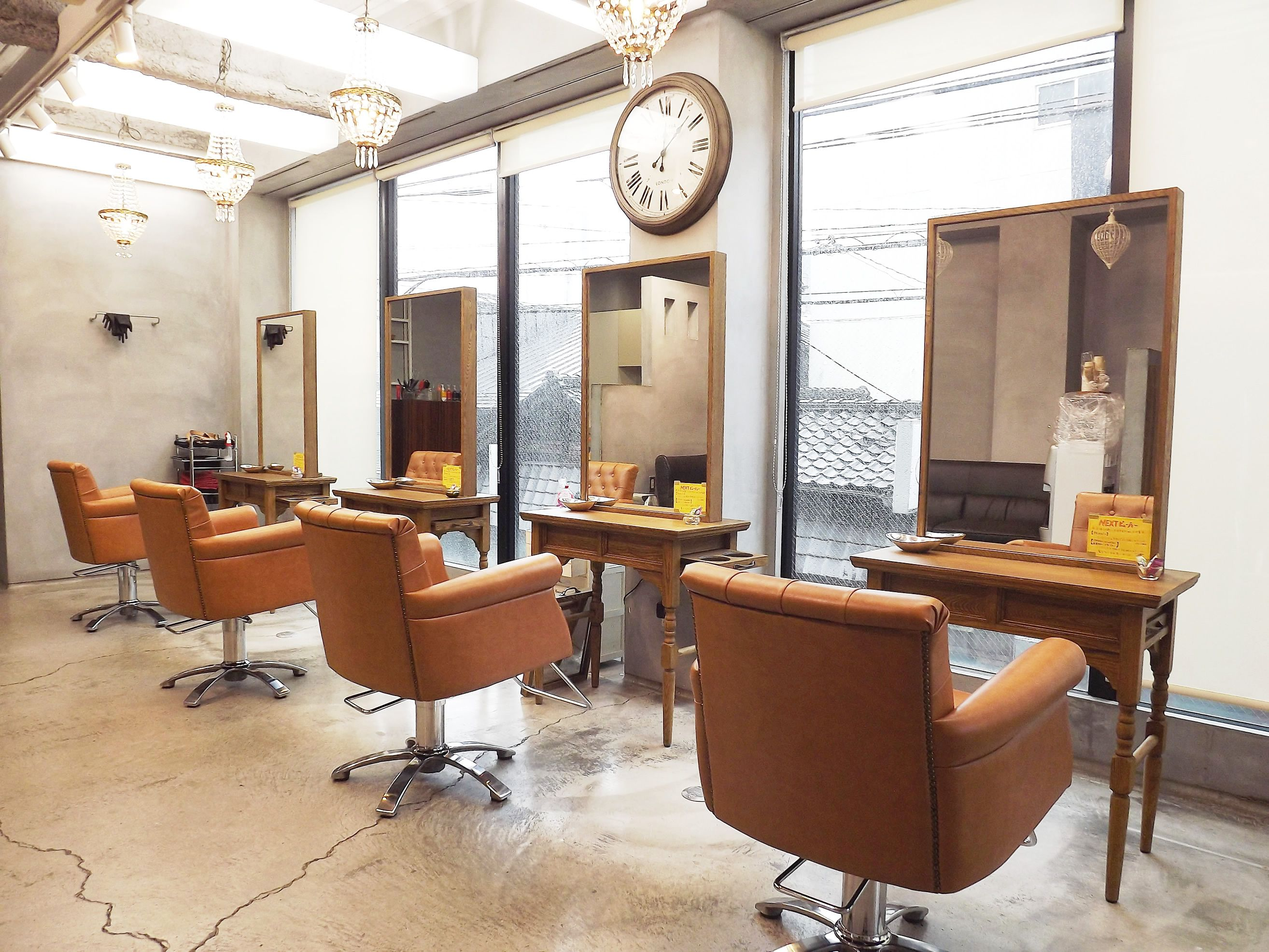
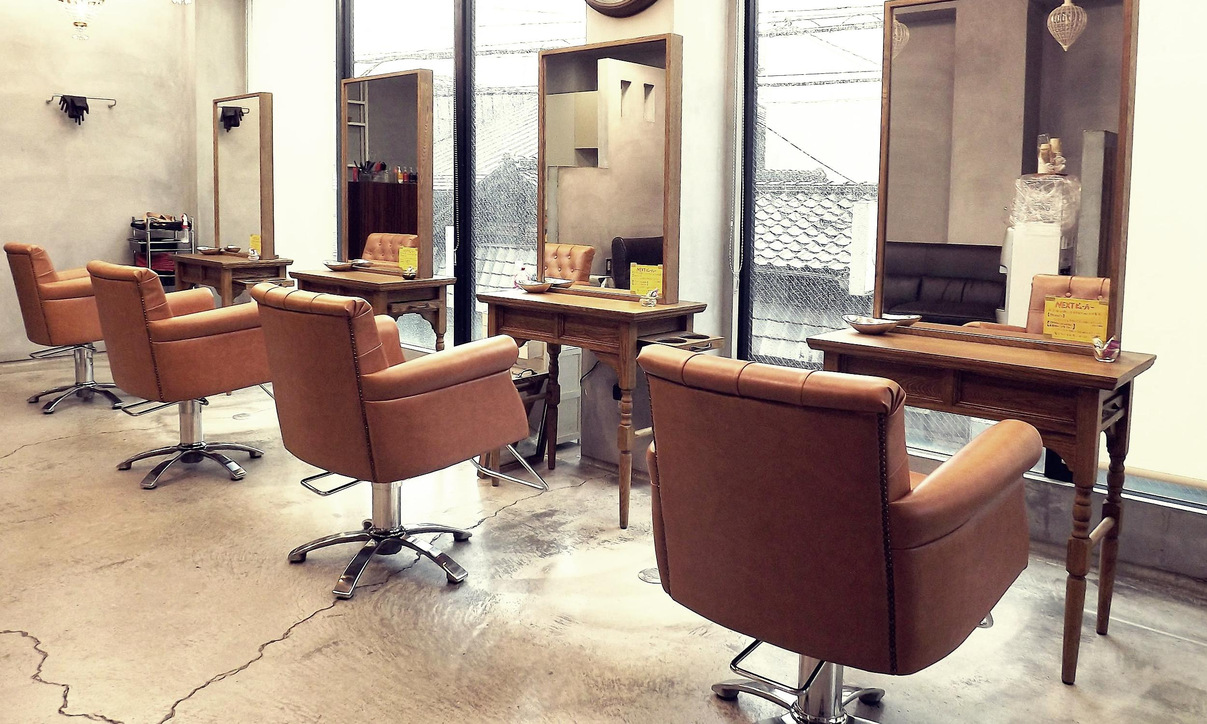
[update]aboutページ更新

diff --git a/app/assets/stylesheets/homes.scss b/app/assets/stylesheets/homes.scss
@@ -3,7 +3,7 @@
 // You can use Sass (SCSS) here: http://sass-lang.com/
 
 .main-container{
- 	background-image: image-url("salon2.jpg");
+ 	background-image: image-url("salon3.jpg");
  	height: 900px;
  	background-size:cover;
  }

diff --git a/app/assets/stylesheets/application.scss b/app/assets/stylesheets/application.scss
@@ -17,3 +17,11 @@
  @import 'bootstrap-datetimepicker';
 
  
+ .container{
+ 	margin-right: 10%;
+ }
+
+ footer{
+ 	text-align:center;
+ 	margin-top:30px;
+ }
